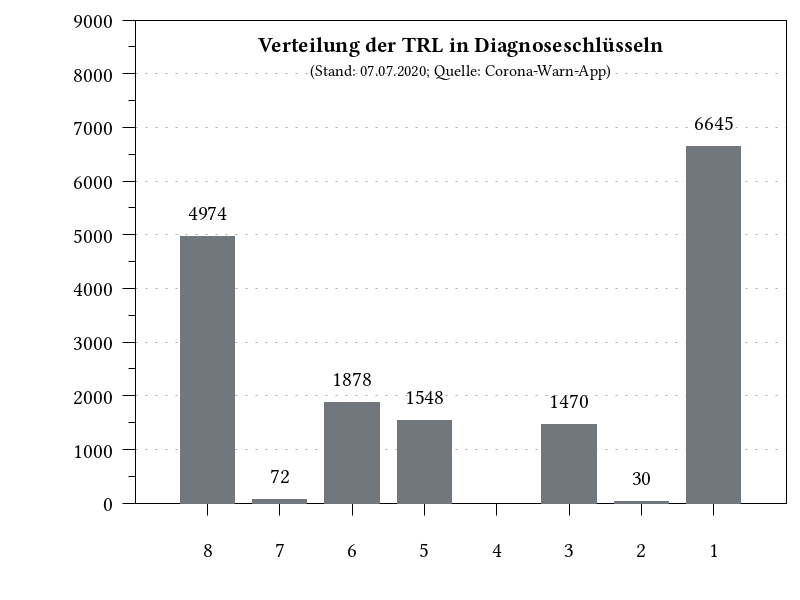
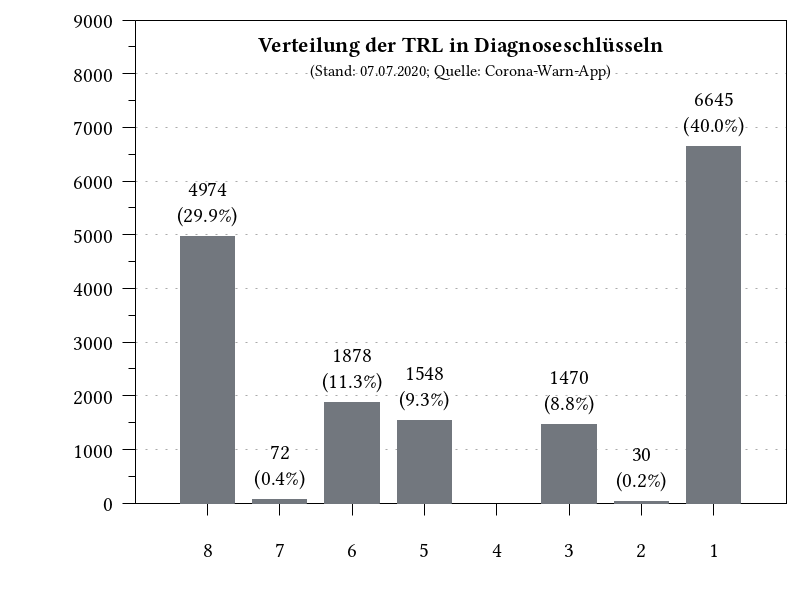
added labels with relative distributions and removed redundant graph (closes #9)

diff --git a/index.html b/index.html
@@ -60,7 +60,6 @@
         <h2 id="TRL">Verteilung Transmission Risk Level (TRL) in Diagnoseschlüsseln</h2>
         <p>
          <img src="/dka/plots_de/plot_TRL_histogram.png" alt="" />
-         <img src="/dka/plots_de/plot_TRL_histogram_relative.png" alt="" />
         </p>
         
         <h2 id="Downloads">Verbreitung der Corona-Warn-App</h2>

diff --git a/README.md b/README.md
@@ -43,9 +43,9 @@ Täglich                                    |  Summe
  ![](plots_de/plot_padding_multiplier.png) | ![](plots_de/plot_empty.png) 
  
 ### Verteilung Transmission Risk Level (TRL) in Diagnoseschlüsseln
-Summe                                      |  relative Verteilung
+Summe                                      |    
 :-----------------------------------------:|:-----------------------------------------:
-![](plots_de/plot_TRL_histogram.png)       | ![](plots_de/plot_TRL_histogram_relative.png)
+![](plots_de/plot_TRL_histogram.png)       | ![](plots_de/plot_empty.png)
 
 ### Verbreitung der Corona-Warn-App
 zeitlicher Verlauf                         |    
